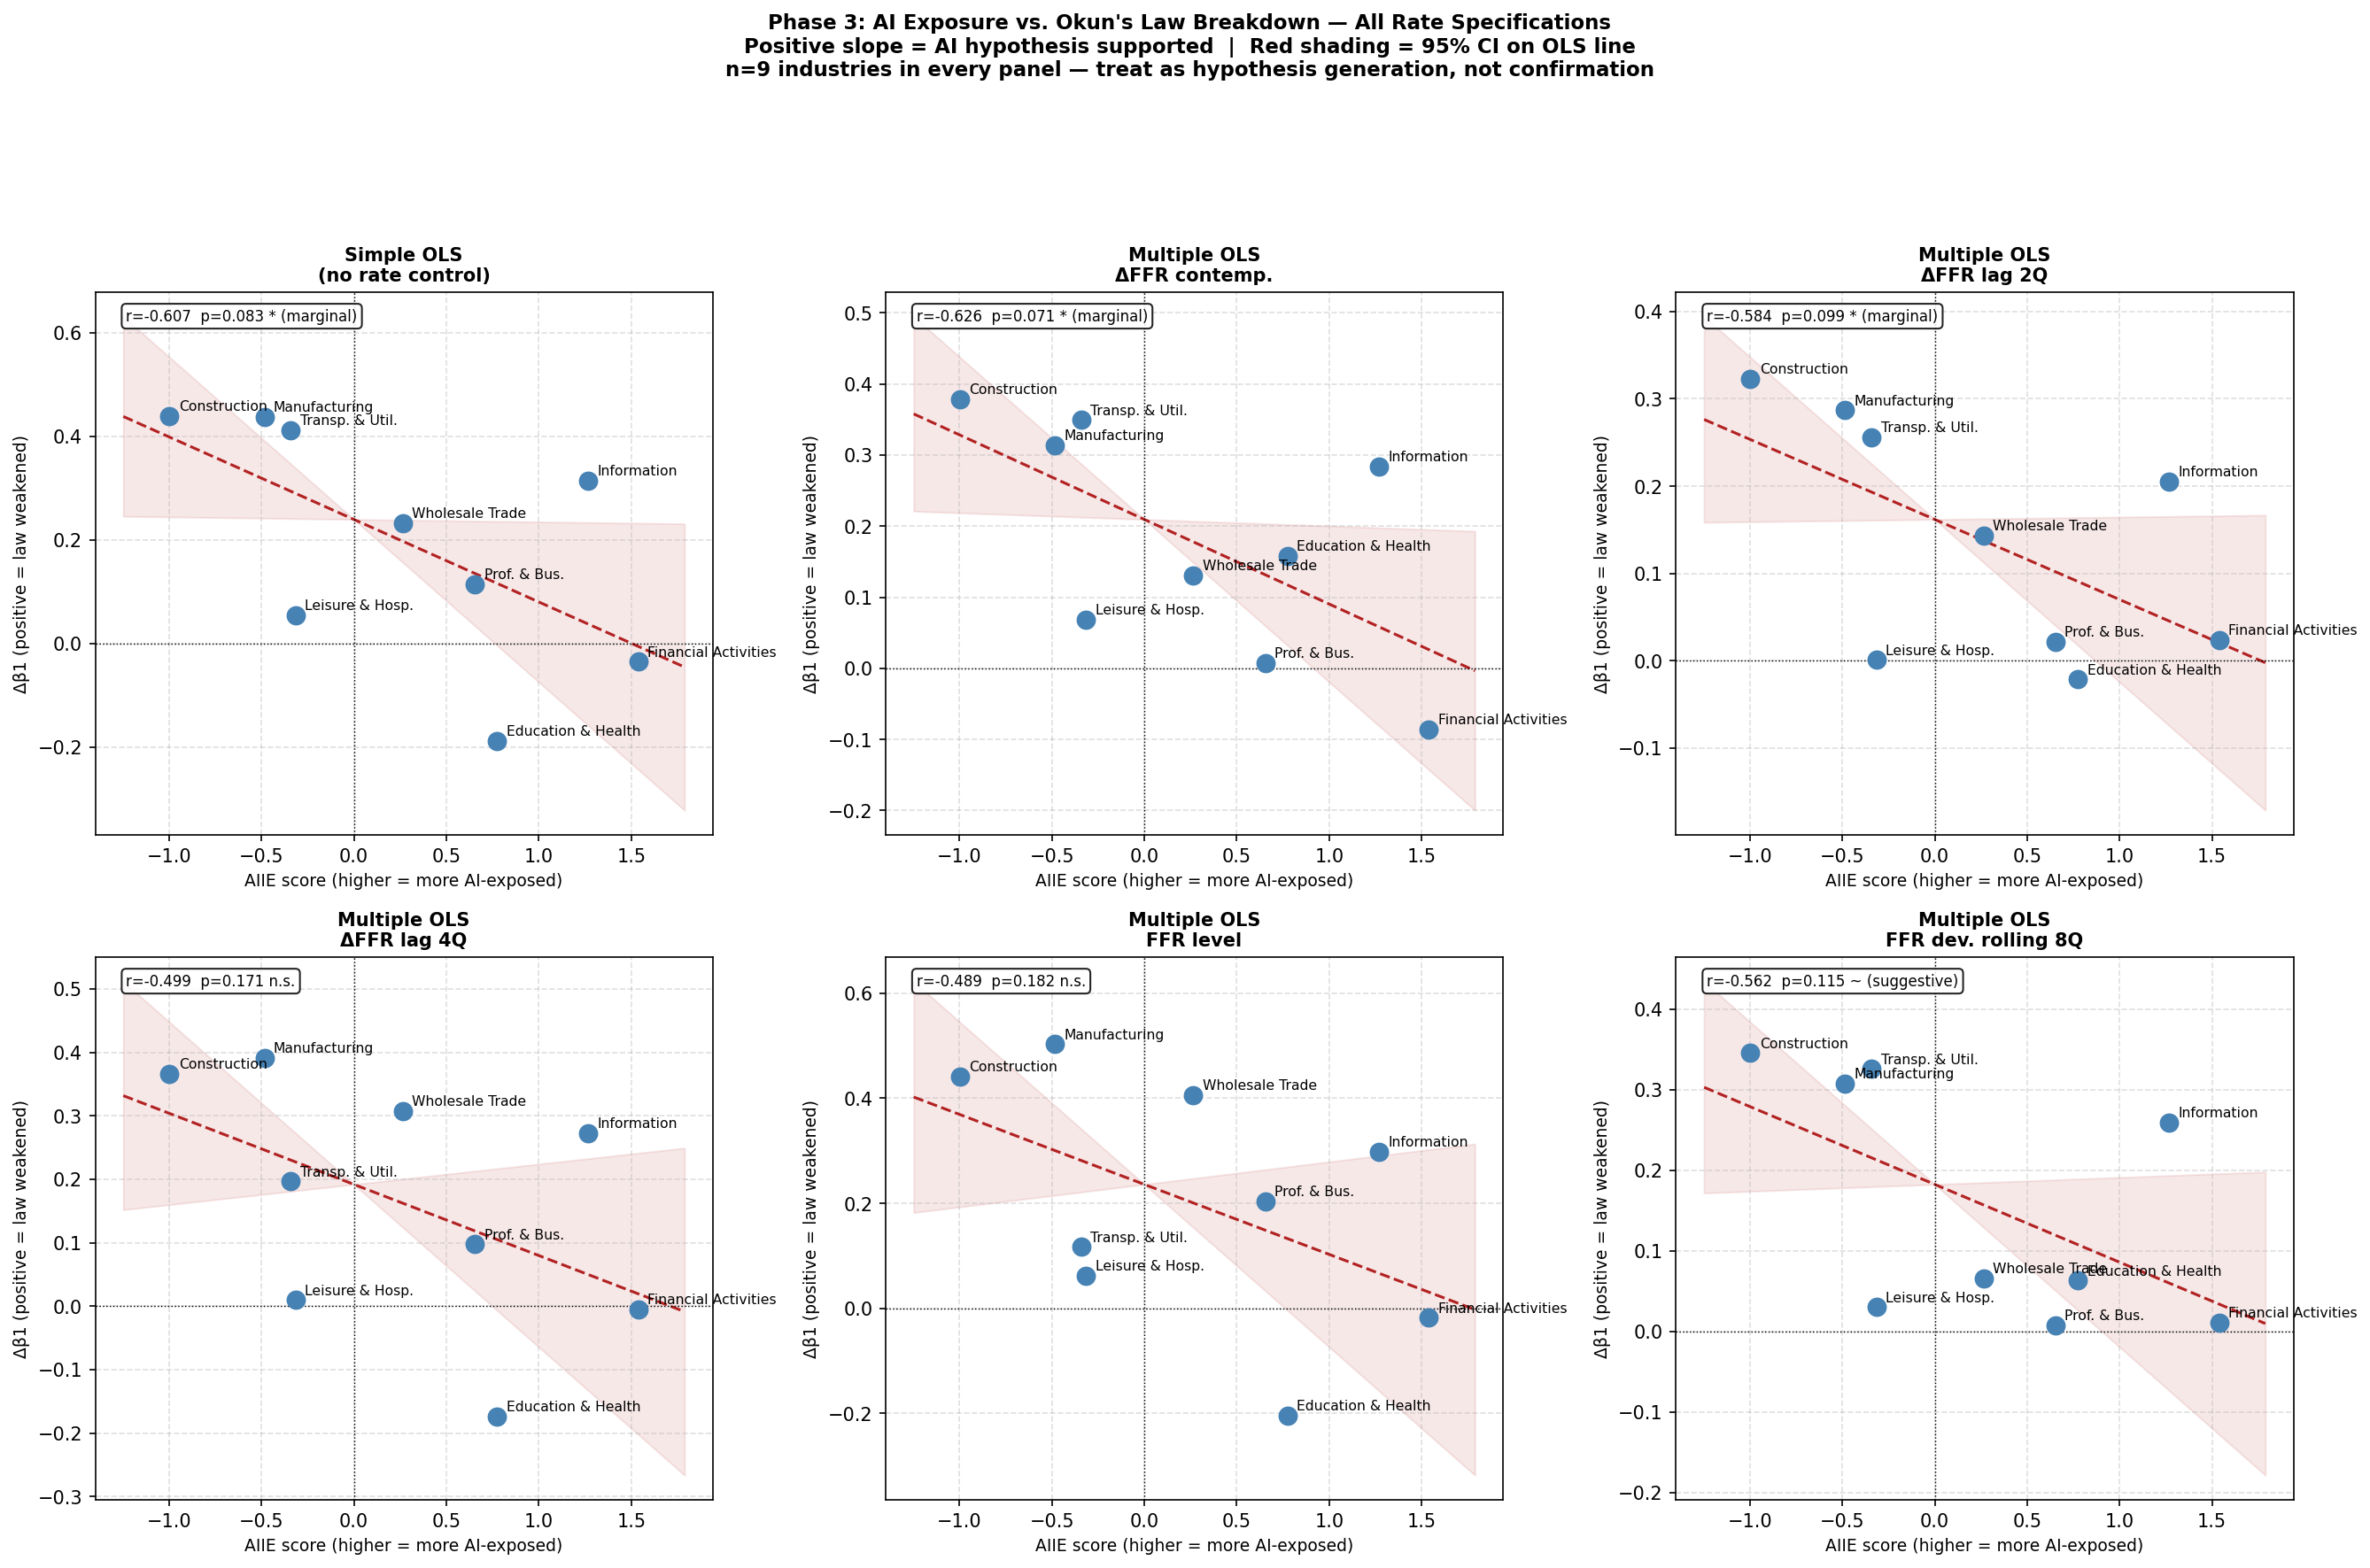
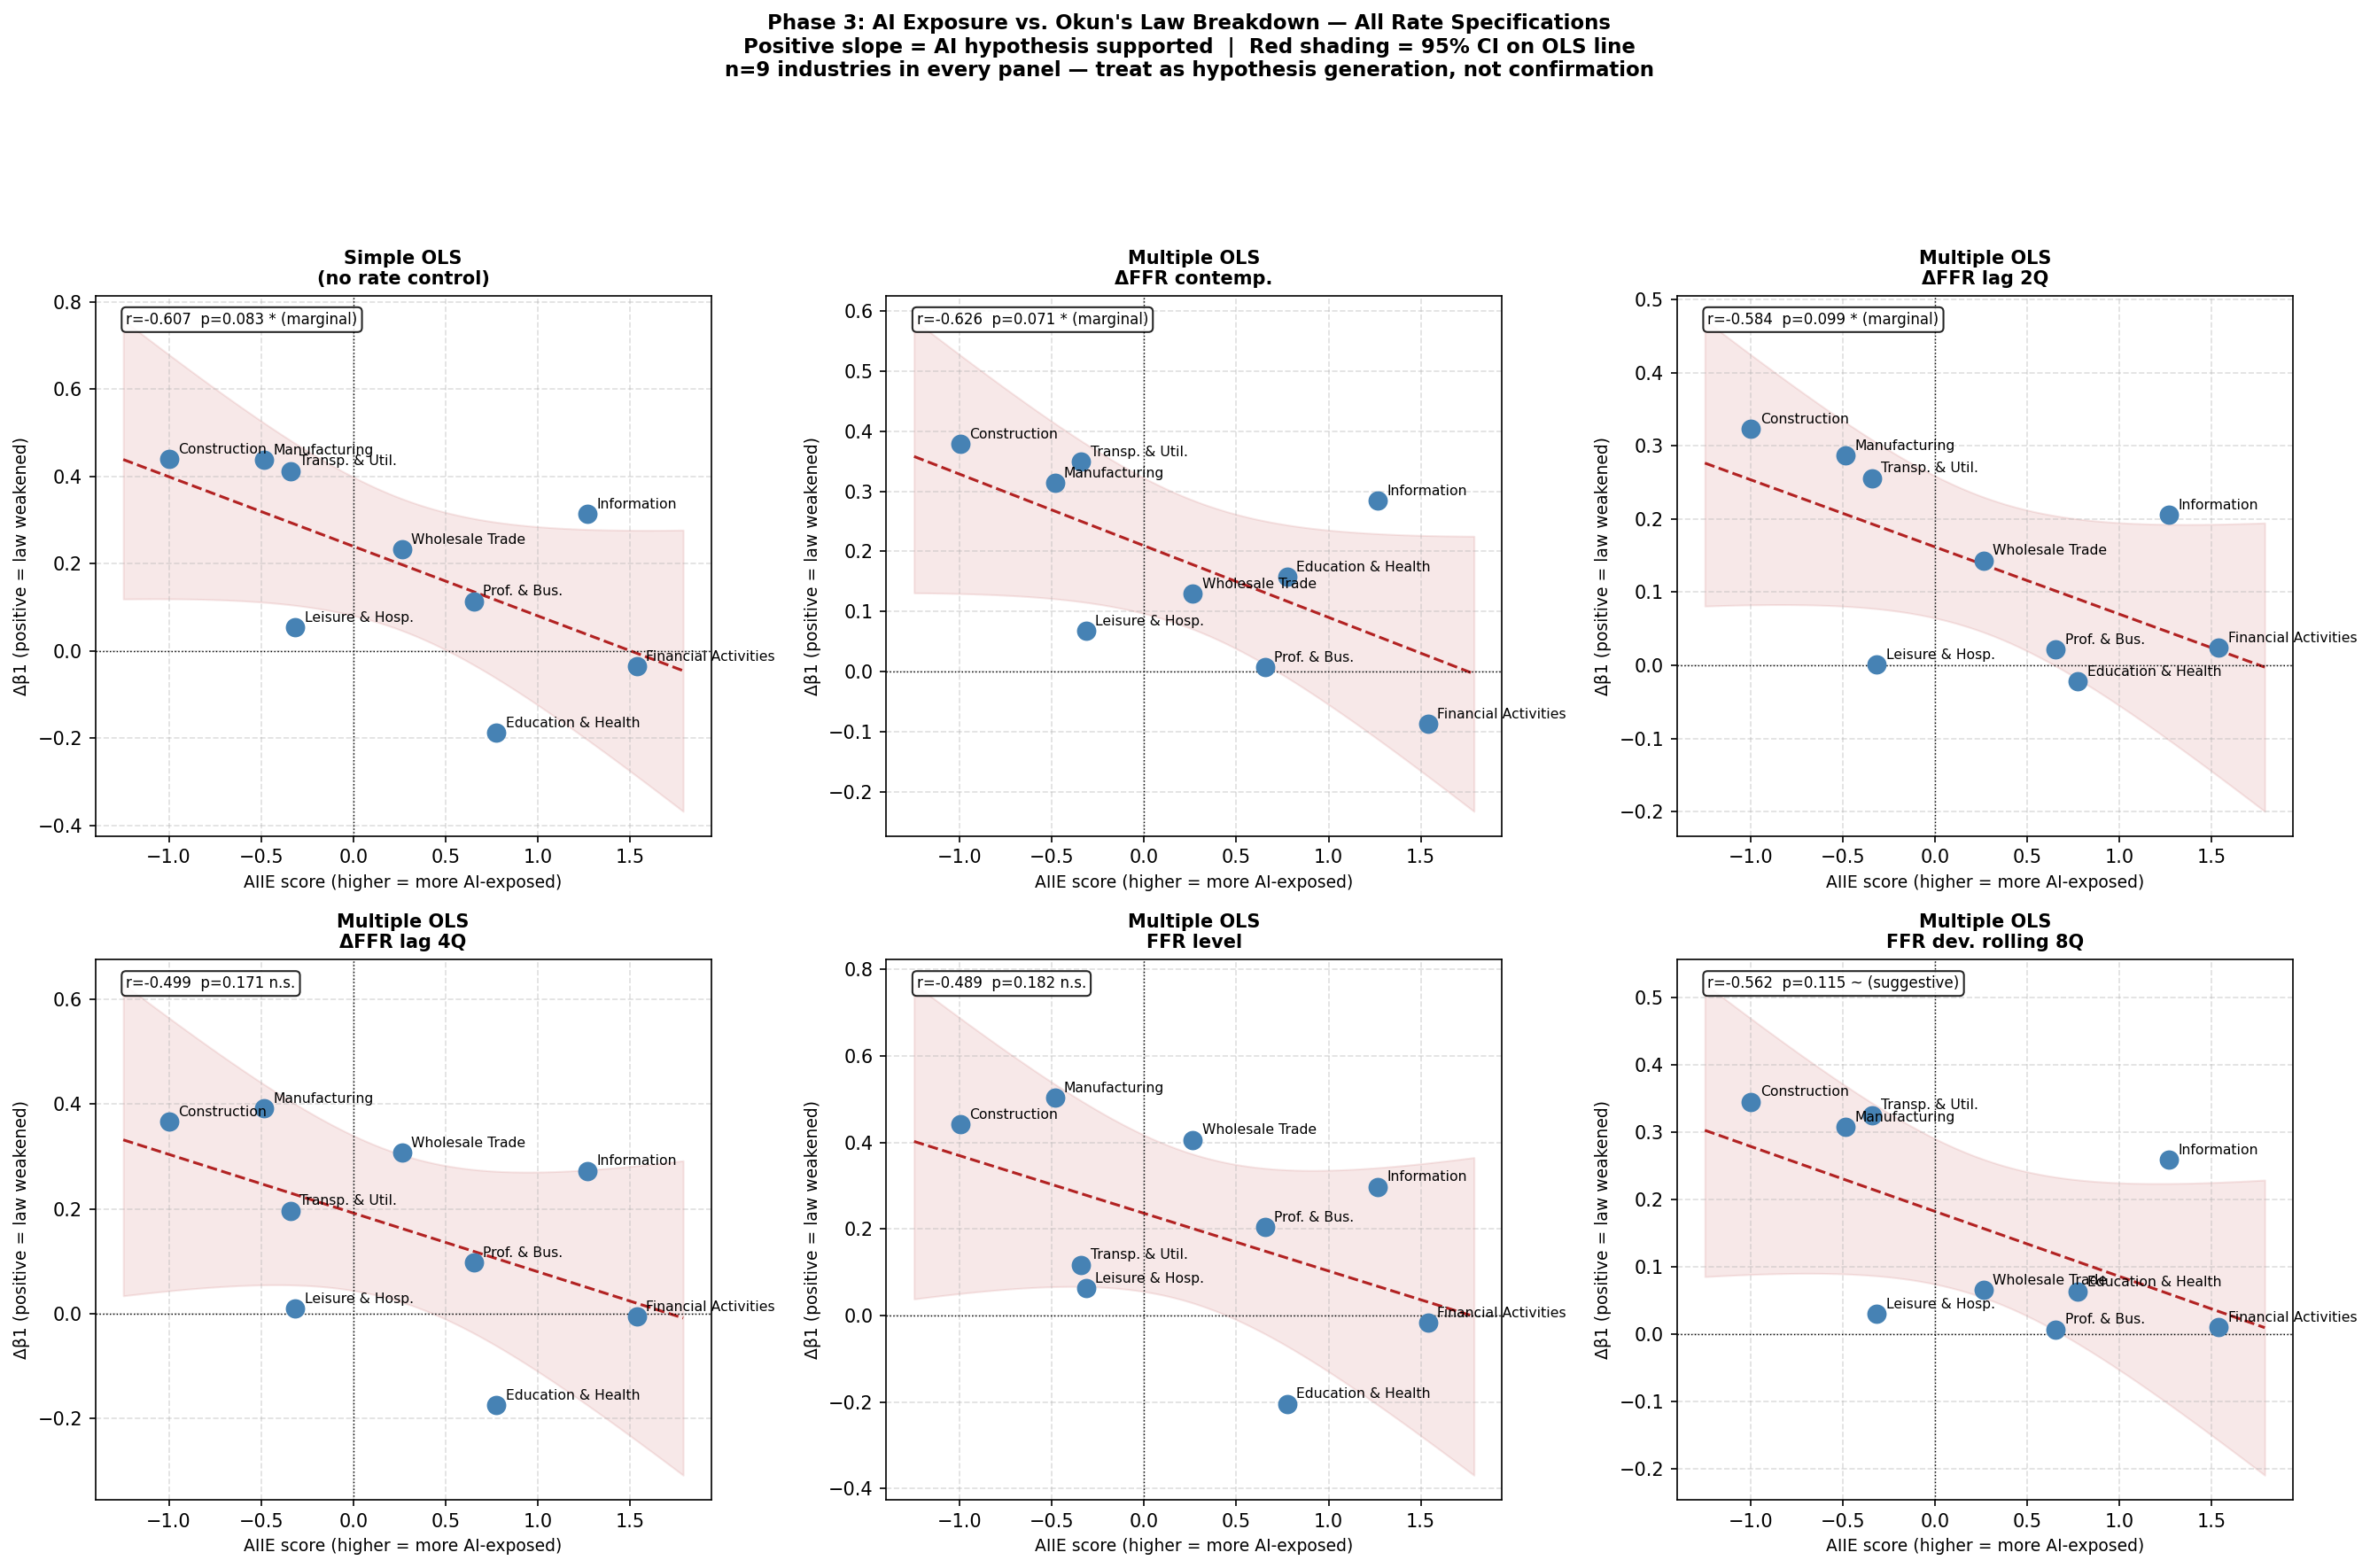
Fix broken data paths, correct Phase 3 CI band, resolve doc contradictions
The data folder was renamed to FRED-Data/ at some point, which silently
broke every script (old references to "Fred Fed Data /" and repo-root
CSVs) and the .gitignore rule. All scripts now read from FRED-Data/ and
generate_results_csv.py no longer hardcodes an absolute path. Verified
by re-running the full pipeline: all six result CSVs reproduce
byte-identical.

Substantive fixes found in review:
- phase3_cross_section.png CI band was computed from slope±1.96·SE alone,
  pinching to zero width at x=0 and ignoring intercept uncertainty; now a
  proper t-based mean-response band (chart regenerated).
- industry_okun_pipeline.py module docstring described differencing AFTER
  dropping COVID rows — the opposite of what the code (correctly) does.
- IndustryAnalysis.py now carries an explicit seasonality caveat: it
  differences QoQ on NSA unemployment series; the YoY pipeline supersedes
  it for inference. README methodology updated to match (it wrongly
  described the difference form as QoQ everywhere).
- info_overhang.py: documented that pre-2010 overhang values are a
  backcast outside the trend's fit window; only post-period results
  bear on the hypothesis.
- GDPUnemployment.py: documented that rolling windows spliced across the
  COVID exclusion span >3 calendar years; README limitations updated.

diff --git a/okun_phase2_3.py b/okun_phase2_3.py
@@ -50,7 +50,7 @@ from scipy import stats as sp_stats
 warnings.filterwarnings("ignore", category=FutureWarning)
 
 # ─── CONFIG ──────────────────────────────────────────────────────────────────
-DATA_DIR  = "Fred Fed Data /"
+DATA_DIR  = "FRED-Data/"
 AI_CUTOFF = pd.Timestamp("2022-10-01")
 EXCLUDE   = pd.date_range("2020-04-01", "2022-01-01", freq="QS")
 
@@ -436,11 +436,19 @@ for ax, spec in zip(axes_flat, spec_order):
     y_fit  = cs_row["intercept"] + cs_row["slope"] * x_r
     ax.plot(x_r, y_fit, color="firebrick", linewidth=1.5, linestyle="--")
 
-    # 95% CI band on regression line
-    se_sl  = cs_row["se_slope"]
-    ax.fill_between(x_r,
-                    cs_row["intercept"] + (cs_row["slope"] - 1.96 * se_sl) * x_r,
-                    cs_row["intercept"] + (cs_row["slope"] + 1.96 * se_sl) * x_r,
+    # 95% CI band on the fitted mean line: ŷ ± t·s·√(1/n + (x−x̄)²/Sxx).
+    # The band is narrowest at x̄ and widens toward the edges; a band built
+    # from slope±SE alone would wrongly pinch to zero width at x = 0 and
+    # ignore intercept uncertainty.
+    xs_cs  = sub["aiie"].values
+    ys_cs  = sub[dβ_col].values
+    resid  = ys_cs - (cs_row["intercept"] + cs_row["slope"] * xs_cs)
+    n_cs   = len(xs_cs)
+    s_err  = np.sqrt(np.sum(resid ** 2) / (n_cs - 2))
+    t_cr   = sp_stats.t.ppf(0.975, df=n_cs - 2)
+    sxx    = np.sum((xs_cs - xs_cs.mean()) ** 2)
+    band   = t_cr * s_err * np.sqrt(1.0 / n_cs + (x_r - xs_cs.mean()) ** 2 / sxx)
+    ax.fill_between(x_r, y_fit - band, y_fit + band,
                     color="firebrick", alpha=0.10, label="_nolegend_")
 
     if   p < 0.01: p_tag = f"p={p:.3f} ***"

diff --git a/GDPUnemployment.py b/GDPUnemployment.py
@@ -25,19 +25,21 @@ from scipy import stats as sp_stats
 # ----------------------------------------------------------------
 # 1. LOAD DATA — four FRED series, all quarterly except UNRATE
 # ----------------------------------------------------------------
-gdp = pd.read_csv("GDPC1.csv", parse_dates=["observation_date"])
+DATA_DIR = "FRED-Data/"
+
+gdp = pd.read_csv(DATA_DIR + "GDPC1.csv", parse_dates=["observation_date"])
 gdp.columns = ["date", "gdp"]
 gdp = gdp.set_index("date")
 
-gdppot = pd.read_csv("GDPPOT.csv", parse_dates=["observation_date"])
+gdppot = pd.read_csv(DATA_DIR + "GDPPOT.csv", parse_dates=["observation_date"])
 gdppot.columns = ["date", "gdppot"]
 gdppot = gdppot.set_index("date")
 
-unrate = pd.read_csv("UNRATE.csv", parse_dates=["observation_date"])
+unrate = pd.read_csv(DATA_DIR + "UNRATE.csv", parse_dates=["observation_date"])
 unrate.columns = ["date", "unrate"]
 unrate = unrate.set_index("date")
 
-nrou = pd.read_csv("NROU.csv", parse_dates=["observation_date"])
+nrou = pd.read_csv(DATA_DIR + "NROU.csv", parse_dates=["observation_date"])
 nrou.columns = ["date", "nrou"]
 nrou = nrou.set_index("date")
 
@@ -517,6 +519,14 @@ print()
 # The companion rolling correlation (r) is tested against the pre-2022
 # historical distribution below to see whether any post-2022 inversion
 # is statistically surprising or just short-window noise.
+#
+# CAVEAT — WINDOWS SPAN THE COVID GAP: the window slides over the
+# COVID-excluded dataset, so a "12-quarter" window ending in 2022–2024
+# stitches together quarters from before Q2 2020 and after Q1 2021.
+# Those windows cover more than 3 calendar years, and the early
+# "post-ChatGPT" windows still contain pre-COVID quarters. The r = +0.81
+# peak lands late enough that its window is mostly post-rebound data,
+# but window composition should be kept in mind when reading the chart.
 # ===============================================================
 WINDOW = 12   # quarters
 

diff --git a/IndustryAnalysis.py b/IndustryAnalysis.py
@@ -26,13 +26,22 @@ from scipy import stats as sp_stats
 #
 # The rolling regression, COVID exclusion, era split (pre/post Q4 2022),
 # and chart style all match GDPUnemployment.py exactly.
+#
+# KNOWN LIMITATION — SEASONALITY: the BLS industry unemployment series
+# used here (LNU04032237, LNU04032241) are NOT seasonally adjusted, and
+# this script differences quarter-over-quarter. Quarterly averaging damps
+# but does not remove the seasonal pattern, so some of the QoQ variation
+# is seasonal rather than cyclical. industry_okun_pipeline.py supersedes
+# this script for inference: it uses 4-quarter (YoY) differences, which
+# cancel seasonality exactly. This script is kept as the original
+# two-sector exploration; read its numbers with that caveat.
 # ================================================================
 
 
 # ----------------------------------------------------------------
 # 1. LOAD DATA
 # ----------------------------------------------------------------
-DATA_DIR = "Fred Fed Data /"
+DATA_DIR = "FRED-Data/"
 
 # Real Value Added: Information sector (quarterly, billions of chained $)
 # High-AI industry — software, cloud, data, media
@@ -135,8 +144,8 @@ print()
 # This is the direct industry equivalent of Chart 2 (gap divergence
 # scatter) in GDPUnemployment.py.
 #
-# Each dot is one quarter. X-axis = output growth, Y-axis = change in1
-# unemployment. Under Okun's Law the cloud should slope downward (top-lef1t
+# Each dot is one quarter. X-axis = output growth, Y-axis = change in
+# unemployment. Under Okun's Law the cloud should slope downward (top-left
 # to bottom-right). If the post-2022 dots cluster near zero ΔU regardless
 # of output growth, the law is weakening in that sector.
 #

diff --git a/industry_okun_pipeline.py b/industry_okun_pipeline.py
@@ -5,9 +5,11 @@ Okun's Law in the AI Era — Full BLS/BEA Industry Pipeline
 Methodology:
   - Difference form of Okun's Law: ΔU = α + β·(%ΔY) + ε
   - YoY (4-quarter) differences to cancel seasonality in NSA unemployment series
-  - COVID quarters (2020-Q2 through 2021-Q1) dropped from raw data before
-    differencing — this naturally NaNs out the rebound quarters (2021-Q2 through
-    2022-Q1) as well, since their YoY denominator falls in the COVID window
+  - YoY differences computed FIRST on the intact series (pct_change is
+    positional — differencing after row removal would silently compare
+    wrong years), THEN the COVID quarters (2020-Q2 through 2021-Q1) and
+    the rebound quarters (2021-Q2 through 2022-Q1, whose YoY denominator
+    falls in the COVID window) are dropped
   - Era split at 2022-Q4 (ChatGPT launch / post-AI cutoff)
   - Rolling 12-quarter window for β and r (matching GDPUnemployment.py)
   - AIIE scores: Felten, Raj, Seamans (2023), mean across 4-digit NAICS
@@ -26,7 +28,7 @@ warnings.filterwarnings("ignore", category=FutureWarning)
 # ----------------------------------------------------------------
 # CONFIG
 # ----------------------------------------------------------------
-DATA_DIR   = "Fred Fed Data /"
+DATA_DIR   = "FRED-Data/"
 AI_CUTOFF  = pd.Timestamp("2022-10-01")   # Q4 2022
 COVID_DROP = pd.date_range("2020-04-01", "2021-01-01", freq="QS")  # Q2–Q4 2020 + Q1 2021
 WINDOW     = 12   # rolling regression quarters
@@ -227,7 +229,7 @@ def load_ffr_control():
     Try to load FEDFUNDS.csv. Returns a quarterly YoY-differenced Series,
     or None if the file is not found.
     To enable: download FEDFUNDS from https://fred.stlouisfed.org/series/FEDFUNDS
-    and save as 'Fred Fed Data /FEDFUNDS.csv'.
+    and save as 'FRED-Data/FEDFUNDS.csv'.
     """
     try:
         ffr = load_series("FEDFUNDS.csv", "ffr")

diff --git a/info_overhang.py b/info_overhang.py
@@ -36,7 +36,7 @@ from scipy import stats as sp_stats
 
 warnings.filterwarnings("ignore", category=FutureWarning)
 
-DATA_DIR  = "Fred Fed Data /"
+DATA_DIR  = "FRED-Data/"
 AI_CUTOFF = pd.Timestamp("2022-10-01")
 EXCLUDE   = pd.date_range("2020-04-01", "2022-01-01", freq="QS")
 
@@ -95,6 +95,13 @@ trend_proj  = trend_full.copy()
 
 # ─── STEP 2: EMPLOYMENT OVERHANG ─────────────────────────────────────────────
 
+# CAVEAT: the trend is fit on 2010-2019 only, but the overhang series is
+# computed over the full sample. Post-2019 values are the intended forward
+# extrapolation (the overhiring test). Pre-2010 values are a BACKCAST of
+# that trend into the dot-com era, where it is a poor model of the sector —
+# so the pre-period regressions' overhang control mostly captures the
+# sector's secular decline through 2009, not overhiring. Only the
+# post-period results are used to evaluate the hypothesis.
 overhang    = ((emp_q - trend_proj) / trend_proj * 100).rename("overhang_pct")
 
 peak_idx    = overhang.idxmax()

diff --git a/generate_results_csv.py b/generate_results_csv.py
@@ -39,7 +39,8 @@ def fmtpct(x, d=1):
 
 # ── load raw data ─────────────────────────────────────────────────────────────
 
-BASE = "/Users/maxstober/Developer/Macro Research /"
+# Relative to the repo root — run this script from the repository directory.
+BASE = ""
 
 p2  = pd.read_csv(BASE + "phase2_results.csv")
 bt  = pd.read_csv(BASE + "btos_beta1_table.csv")

diff --git a/btos_interaction.py b/btos_interaction.py
@@ -39,7 +39,7 @@ import warnings
 
 warnings.filterwarnings("ignore", category=FutureWarning)
 
-DATA_DIR    = "Fred Fed Data /"
+DATA_DIR    = "FRED-Data/"
 SECTOR_FILE = os.path.join(DATA_DIR, "Sector.xlsx")
 
 # AIIE scores (Felten, Raj, Seamans 2023)

diff --git a/README.md b/README.md
@@ -46,7 +46,9 @@ A positive `Y_gap` means the economy is running above potential; a positive `U_g
 ΔU = β × %ΔY + ε
 ```
 
-where `ΔU` is the quarter-over-quarter change in the sector's unemployment rate and `%ΔY` is the quarter-over-quarter growth of its real output. Classic Okun's Law implies β ≈ −0.3 to −0.5; β drifting toward zero (or flipping positive) means growth has stopped pulling unemployment down.
+where `ΔU` is the change in the sector's unemployment rate and `%ΔY` is the growth of its real output. Classic Okun's Law implies β ≈ −0.3 to −0.5; β drifting toward zero (or flipping positive) means growth has stopped pulling unemployment down.
+
+The differencing horizon matters because the BLS industry unemployment series are **not seasonally adjusted**. The early two-sector script (`IndustryAnalysis.py`) uses quarter-over-quarter differences, which leave some seasonal pattern in the data — a known weakness. The 9-industry pipeline and everything downstream of it (`industry_okun_pipeline.py`, `okun_phase2_3.py`, `info_overhang.py`) use **year-over-year (4-quarter) differences**, which cancel seasonality exactly by comparing each quarter to the same quarter a year earlier. YoY differencing is computed on the intact series *before* any rows are excluded (pandas differencing is positional, so excluding first would silently compare wrong years), and the exclusion window for these scripts extends through Q1 2022 to also drop the rebound quarters whose year-ago baseline falls inside COVID.
 
 **Excluding COVID.** Q2 2020 – Q1 2021 is dropped from every regression and rolling statistic. GDP cratered and unemployment spiked because businesses were legally closed, not because of any organic output-employment relationship — including these quarters would corrupt every downstream regression. They're kept in the raw dataset and plotted as red diamonds for transparency, just excluded from fitting.
 
@@ -112,7 +114,7 @@ Two honest caveats travel with this chart. A 12-quarter window is only three yea
 
 ![Two-sector rolling Okun comparison](industry_rolling_okun.png)
 
-If AI is really the mechanism, the breakdown should show up most strongly in industries most exposed to it and weakly or not at all in industries that are hard to automate. The first cut compares Information (software, cloud, media — high exposure) against Leisure & Hospitality (restaurants, hotels, entertainment — low exposure), using the difference form of Okun's Law since sector-level potential output and natural rates don't exist. Post-2022, Information's rolling coefficient turns extremely variable and drifts toward a slightly positive slope, while Leisure & Hospitality stays predictably negative throughout — directionally the AI story. But two industries are a small comparison set, and industry-level data is far more volatile than aggregate GDP, so this motivates the real test rather than settling it.
+If AI is really the mechanism, the breakdown should show up most strongly in industries most exposed to it and weakly or not at all in industries that are hard to automate. The first cut compares Information (software, cloud, media — high exposure) against Leisure & Hospitality (restaurants, hotels, entertainment — low exposure), using the difference form of Okun's Law since sector-level potential output and natural rates don't exist. Post-2022, Information's rolling coefficient turns extremely variable and drifts toward a slightly positive slope, while Leisure & Hospitality stays predictably negative throughout — directionally the AI story. But two industries are a small comparison set, and industry-level data is far more volatile than aggregate GDP, so this motivates the real test rather than settling it. One additional caveat specific to this script: it differences quarter-over-quarter on unemployment series that are not seasonally adjusted, so some seasonal noise remains in these estimates — the 9-industry pipeline below switches to year-over-year differences, which cancel seasonality exactly.
 
 ### Chart 7 — Nine industries against their AI-exposure score
 
@@ -152,7 +154,7 @@ So `FEDFUNDS` is added as a control across six specifications (no control, conte
 
 ### Chart 9 — Does reported AI adoption match theoretical exposure? (`btos_cross_section.png`, `btos_interaction.py`)
 
-AIIE measures theoretical *exposure*; it is not the same as firms actually *using* AI. The Census Bureau's Business Trends and Outlook Survey has asked firms directly about AI adoption since late 2025, giving a short (~3-quarter) but real adoption measure to check the exposure ranking against. Financial Activities and Information top both lists, and the rest reorder only modestly — too short a series to run its own time-series regression, but the rank agreement is a modest validation that the Felten et al. exposure score is a reasonable, if imperfect, proxy for where AI is actually landing.
+AIIE measures theoretical *exposure*; it is not the same as firms actually *using* AI. The Census Bureau's Business Trends and Outlook Survey asks firms directly about AI adoption; sector-level responses to that question are only available from November 2025 onward in the file used here, giving a short (~3-quarter) but real adoption measure to check the exposure ranking against. Financial Activities and Information top both lists, and the rest reorder only modestly — too short a series to run its own time-series regression, but the rank agreement is a modest validation that the Felten et al. exposure score is a reasonable, if imperfect, proxy for where AI is actually landing.
 
 ### Chart 10 — Was the Information break just an overhiring correction? (`info_overhang_regression.png`, `info_overhang.py`)
 
@@ -167,12 +169,14 @@ One alternative specific to Information: tech firms over-hired 15–20% above tr
 ## Limitations
 
 - Post-ChatGPT sample is short (~10–13 clean quarters); rolling-window statistics from that few points are noisy, and overlapping windows violate the independence assumption behind the reported p-values (making them somewhat optimistic, though likely still small).
+- Rolling windows slide over the COVID-excluded dataset, so windows ending in 2022–2024 stitch together quarters from before Q2 2020 and after the exclusion — they span more than 3 calendar years, and the earliest "post-ChatGPT" windows still contain pre-COVID quarters.
+- The two-sector script (`IndustryAnalysis.py`) differences quarter-over-quarter on non-seasonally-adjusted unemployment series, leaving seasonal noise in its estimates; the 9-industry pipeline's YoY differencing supersedes it for anything quantitative.
 - The Q4 2022 cutoff is a convenient, visible marker (ChatGPT's launch date), not a measured adoption date — actual enterprise AI adoption was gradual and is itself confounded with the 2022–2023 rate-hiking cycle.
 - Industry-level data is more volatile than aggregate GDP/unemployment, and a 9-industry cross-section is a small sample for a regression-based test.
 - This project documents a correlation-level break and tests one candidate explanation (AI exposure) against two obvious confounds (interest rates, overhiring correction). It does not establish causality.
 
 ## Reproducing this
 
-1. Download the FRED series listed above (plus the industry-level and `FEDFUNDS` series referenced in each script's header) as CSVs into the data directory each script expects (`Fred Fed Data/`).
+1. Download the FRED series listed above (plus the industry-level and `FEDFUNDS` series referenced in each script's header) as CSVs into `FRED-Data/` at the repo root (the directory is gitignored; every script reads from it).
 2. `pip install pandas numpy matplotlib scipy openpyxl`
 3. Run scripts in this order for the full pipeline: `GDPUnemployment.py` → `IndustryAnalysis.py` → `industry_okun_pipeline.py` → `okun_phase2_3.py` → `btos_interaction.py` → `info_overhang.py` → `generate_results_csv.py`.